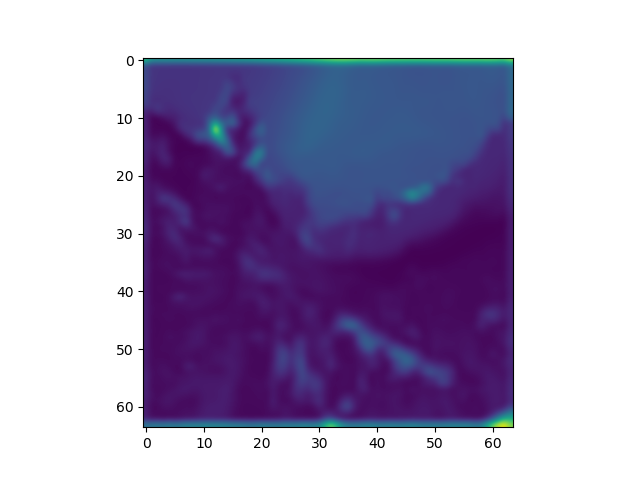
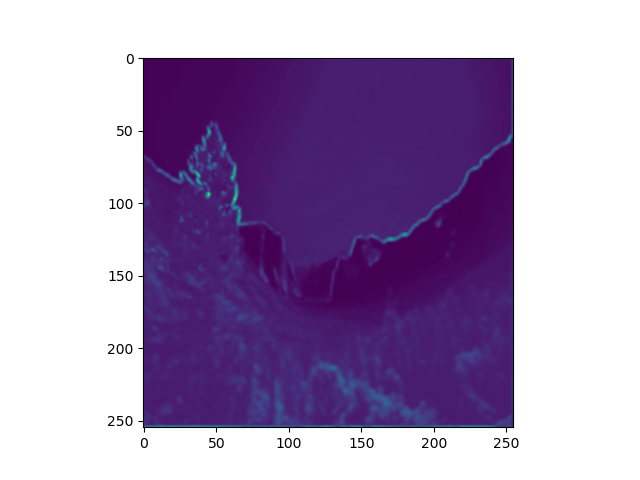
more results

diff --git a/visualize_attention.py b/visualize_attention.py
@@ -34,6 +34,8 @@ if __name__ == '__main__':
     if hasattr(state_dict, '_metadata'):
         del state_dict._metadata
     attention_model.netD.load_state_dict(state_dict)
+
+    attention_model.layers = [0, 1, 2, 3, 4, 5, 6, 7, 8, 9, 10, 11, 12, 13, 14]
     attention_model.input_imgs = transform(img).unsqueeze(0).cuda()
 
 
